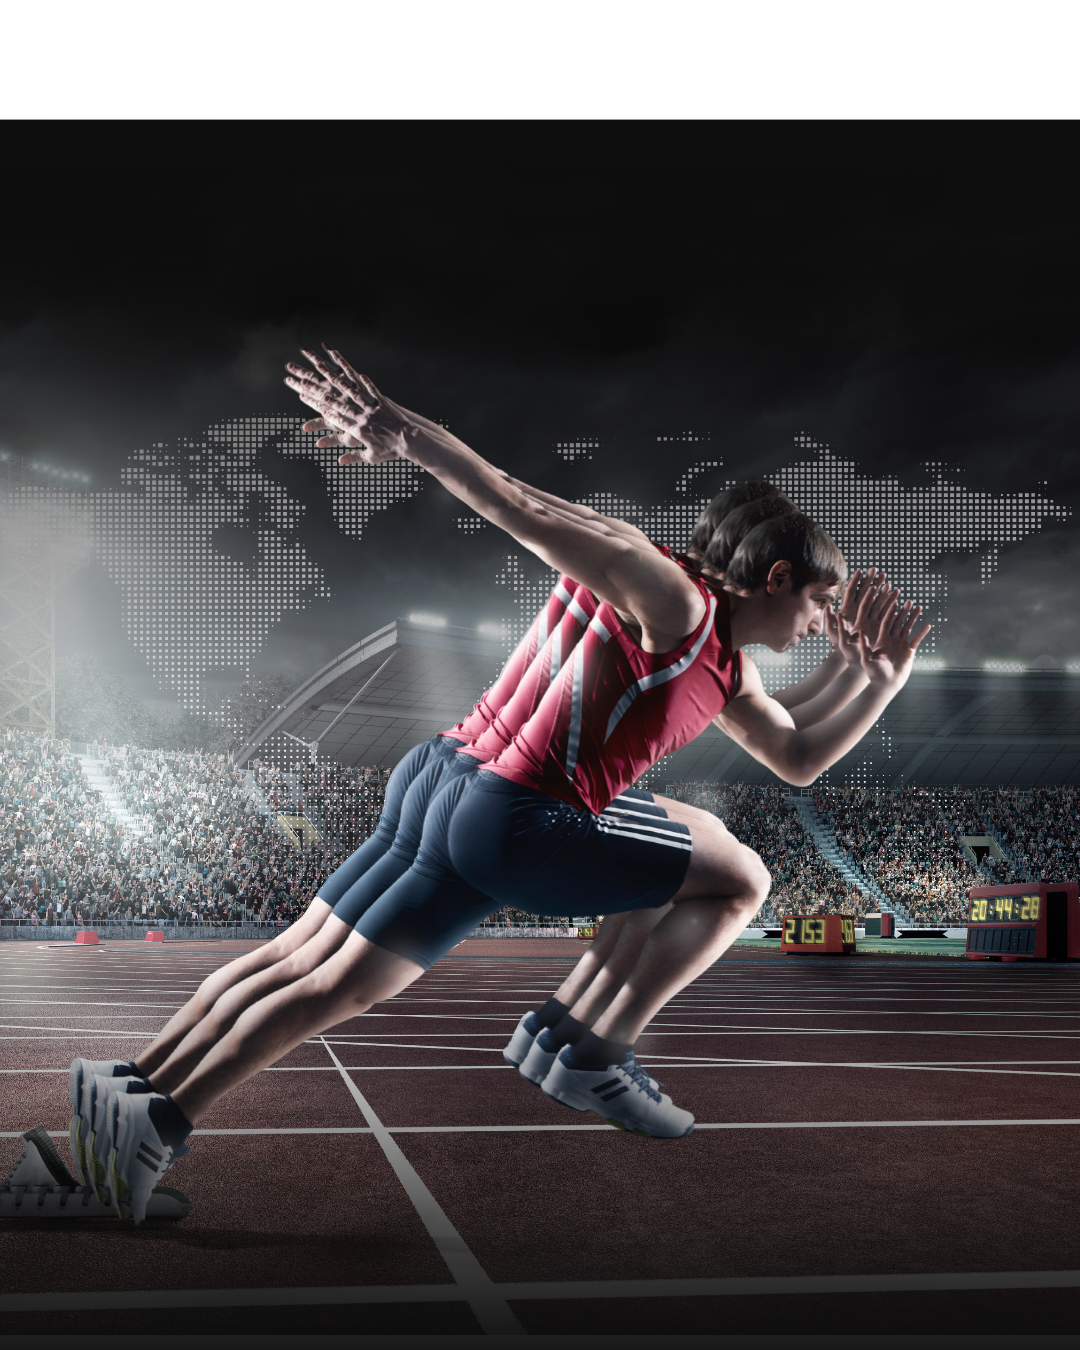
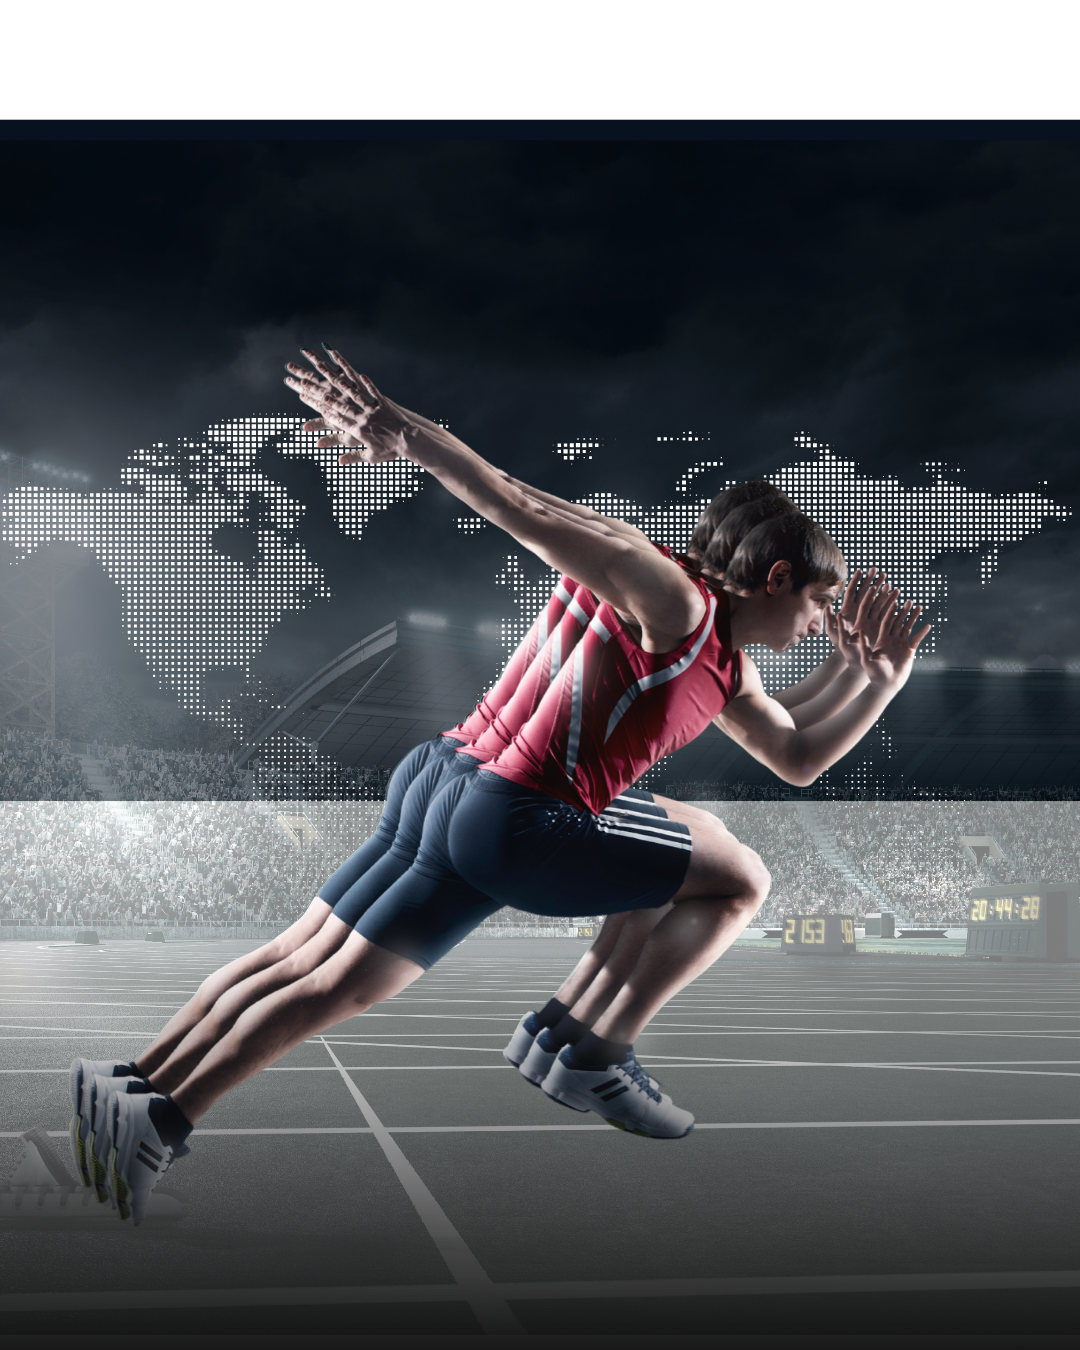
New hero athlete image + lime data-line callouts
- Swap athlete photo for sprinter-on-blocks with stadium + dot world map
- Loosen radial mask now that the photo carries its own dark backdrop
- Replace 6 floating True Line badges with 3 line-anchored data callouts
  (leader lines + anchor dots + numbers + sparkline/bar visualizations)
- Lime accent (#D5FA45) for the data overlay reads as live analytics
- Rewire ticker to flicker probability/edge values on the new labels

diff --git a/index.html b/index.html
@@ -1659,7 +1659,7 @@
     z-index: 4;
   }
   .corp-hero-player {
-    position: absolute; inset: -40px -20px -40px -20px;
+    position: absolute; inset: -30px -10px -30px -10px;
     border-radius: 0;
     overflow: visible;
     background-color: transparent;
@@ -1669,17 +1669,17 @@
     background-position: center;
     background-repeat: no-repeat;
     -webkit-mask-image:
-      radial-gradient(ellipse 80% 80% at 50% 50%, black 35%, transparent 78%);
+      radial-gradient(ellipse 100% 100% at 50% 50%, black 75%, transparent 100%);
     mask-image:
-      radial-gradient(ellipse 80% 80% at 50% 50%, black 35%, transparent 78%);
+      radial-gradient(ellipse 100% 100% at 50% 50%, black 75%, transparent 100%);
     box-shadow: none;
-    filter: contrast(1.05) saturate(0.92);
+    filter: contrast(1.02) saturate(0.95);
   }
   .corp-hero-player::before {
     content: ""; position: absolute; inset: 0;
     background:
-      radial-gradient(ellipse 500px 350px at 50% 60%, rgba(62,146,204,0.25), transparent 65%),
-      linear-gradient(180deg, rgba(7,17,31,0) 50%, rgba(7,17,31,0.7) 100%);
+      radial-gradient(ellipse 600px 400px at 50% 55%, rgba(62,146,204,0.14), transparent 70%),
+      linear-gradient(180deg, rgba(7,17,31,0) 70%, rgba(7,17,31,0.35) 100%);
     pointer-events: none;
     mix-blend-mode: normal;
   }
@@ -1690,118 +1690,91 @@
     z-index: 5;
     pointer-events: none;
   }
-  .tl-badge {
+  /* Leader-line overlay painted over the athlete (anchor dots + lines) */
+  .data-lines {
     position: absolute;
-    background: rgba(10, 23, 41, 0.88);
-    backdrop-filter: blur(14px);
-    -webkit-backdrop-filter: blur(14px);
-    border: 1px solid rgba(62,146,204,0.36);
-    border-radius: 10px;
-    padding: 9px 13px;
-    color: var(--white);
-    box-shadow:
-      0 14px 38px rgba(0,0,0,0.55),
-      0 0 28px rgba(62,146,204,0.18),
-      inset 0 1px 0 rgba(255,255,255,0.08);
-    min-width: 148px;
-    animation: tl-float 7s ease-in-out infinite;
-    transition: border-color 0.4s, box-shadow 0.4s;
-  }
-  .tl-badge.flash {
-    border-color: rgba(0,208,138,0.85);
-    box-shadow:
-      0 16px 40px rgba(0,0,0,0.55),
-      0 0 32px rgba(0,208,138,0.45),
-      inset 0 1px 0 rgba(255,255,255,0.10);
+    inset: 0;
+    width: 100%;
+    height: 100%;
+    overflow: visible;
+    color: #D5FA45;
+    filter: drop-shadow(0 0 8px rgba(213, 250, 69, 0.45));
   }
 
-  /* TRUE LINE callout at top of each badge */
-  .tl-badge-callout {
-    display: flex; align-items: center; gap: 6px;
-    font-size: 9px;
-    font-weight: 800;
-    letter-spacing: 0.2em;
-    text-transform: uppercase;
-    color: #67BCEC;
-    margin-bottom: 7px;
+  /* Floating metric labels at the end of each leader line */
+  .data-label {
+    position: absolute;
+    z-index: 6;
+    pointer-events: none;
+    display: flex;
+    flex-direction: column;
+    gap: 4px;
+    min-width: 120px;
+    color: #D5FA45;
+    text-shadow: 0 0 16px rgba(213, 250, 69, 0.30);
+    transition: color 0.3s, text-shadow 0.3s, transform 0.4s;
+    animation: dl-float 9s ease-in-out infinite;
+  }
+  .data-label.flash .dl-num {
+    color: #ECFFA0;
+    text-shadow: 0 0 22px rgba(213, 250, 69, 0.85);
+  }
+  .dl-eyebrow {
     font-family: "Inter", sans-serif;
-  }
-  .tl-badge-callout-dot {
-    width: 5px; height: 5px;
-    border-radius: 50%;
-    background: #00D08A;
-    box-shadow: 0 0 6px #00D08A;
-  }
-  .tl-badge-game {
-    font-size: 11px;
-    font-weight: 700;
-    color: var(--white);
-    margin-bottom: 6px;
-    line-height: 1.25;
-    letter-spacing: -0.005em;
-  }
-  .tl-badge-game small {
-    display: block;
-    color: rgba(255,255,255,0.55);
     font-size: 9px;
-    font-weight: 600;
-    letter-spacing: 0.08em;
+    letter-spacing: 0.20em;
     text-transform: uppercase;
-    margin-top: 2px;
-  }
-  .tl-badge-line {
-    display: flex; align-items: baseline; justify-content: space-between;
-    gap: 8px;
-    font-family: "SF Mono", Monaco, monospace;
-  }
-  .tl-badge-price {
-    font-size: 18px;
-    font-weight: 800;
-    color: var(--white);
-    letter-spacing: -0.02em;
-    transition: color 0.3s;
-  }
-  .tl-badge-delta {
-    font-size: 10px;
     font-weight: 700;
-    font-family: "SF Mono", Monaco, monospace;
+    opacity: 0.92;
   }
-  .tl-badge-delta.up   { color: #00D08A; }
-  .tl-badge-delta.down { color: #F76060; }
+  .dl-num {
+    font-family: "Space Grotesk", "JetBrains Mono", monospace;
+    font-size: 28px;
+    font-weight: 600;
+    letter-spacing: 0.005em;
+    font-variant-numeric: tabular-nums;
+    line-height: 1;
+    transition: color 0.3s, text-shadow 0.3s;
+  }
+  .dl-spark, .dl-bars {
+    width: 92px;
+    height: 16px;
+    display: block;
+    color: #D5FA45;
+    margin-top: 4px;
+    overflow: visible;
+  }
 
-  /* Badge positions — ALL on/around right column, NEVER spilling left */
-  /* Left edge of stage == left edge of player image. Negative left = over image, not into text. */
-  .tl-badge.b1 { top: 4%;   left: -8%;  animation-delay: 0s;   }
-  .tl-badge.b2 { top: 8%;   right: -8%; animation-delay: 1.2s; }
-  .tl-badge.b3 { top: 38%;  left: -10%; animation-delay: 2.4s; }
-  .tl-badge.b4 { top: 44%;  right: -10%; animation-delay: 3.6s; }
-  .tl-badge.b5 { bottom: 12%; left: 6%;  animation-delay: 4.8s; }
-  .tl-badge.b6 { bottom: 18%; right: -6%; animation-delay: 0.6s; }
+  /* Label positions — anchored along the right side */
+  .data-label.dl-1 { top: 4%;    left: 72%; animation-delay: 0s;   }
+  .data-label.dl-2 { top: 42%;   left: 72%; animation-delay: 1.5s; }
+  .data-label.dl-3 { bottom: 4%; left: 72%; animation-delay: 3s;   }
 
-  @keyframes tl-float {
-    0%, 100% { transform: translateY(0) translateX(0); }
-    50%      { transform: translateY(-8px) translateX(2px); }
+  @keyframes dl-float {
+    0%, 100% { transform: translateY(0); }
+    50%      { transform: translateY(-5px); }
   }
 
   /* Responsive */
   @media (max-width: 1100px) {
-    .tl-badge.b1, .tl-badge.b3 { left: -4%; }
-    .tl-badge.b2, .tl-badge.b4, .tl-badge.b6 { right: -4%; }
+    .data-label { min-width: 100px; }
+    .dl-num { font-size: 24px; }
+    .dl-spark, .dl-bars { width: 80px; }
   }
   @media (max-width: 960px) {
     .corp-hero-grid { grid-template-columns: 1fr; }
     .corp-hero-text { max-width: 100%; }
     .corp-hero-visual { aspect-ratio: 16/12; max-height: 480px; }
-    .tl-badge.b3, .tl-badge.b4 { display: none; }
+    .data-label.dl-2 { display: none; }
   }
   @media (max-width: 640px) {
-    .tl-badge.b5, .tl-badge.b6 { display: none; }
+    .data-label.dl-3 { display: none; }
     .corp-hero { padding: 80px 0 100px; }
   }
 
   /* Reduced motion */
   @media (prefers-reduced-motion: reduce) {
-    .tl-badge { animation: none !important; }
+    .data-label { animation: none !important; }
   }
 
   /* Coverage trust bar */
@@ -2067,53 +2040,64 @@
         </div>
 
         <div class="tl-stage" id="tlStage">
-          <div class="tl-badge b1" data-base="-107">
-            <div class="tl-badge-callout"><span class="tl-badge-callout-dot"></span>True Line · Live</div>
-            <div class="tl-badge-game">Lakers @ Celtics<small>NBA · Spread BOS −3.5</small></div>
-            <div class="tl-badge-line">
-              <span class="tl-badge-price">−107</span>
-              <span class="tl-badge-delta up">▲ 0.2%</span>
-            </div>
+          <!-- Leader lines + anchor dots painted over the athlete -->
+          <svg class="data-lines" viewBox="0 0 100 125" preserveAspectRatio="xMidYMid meet" aria-hidden="true">
+            <!-- Line 1: front shoulder/upper torso → top-right label -->
+            <line x1="58" y1="38" x2="72" y2="14" stroke="currentColor" stroke-width="0.35" vector-effect="non-scaling-stroke" />
+            <circle cx="58" cy="38" r="0.85" fill="currentColor" />
+
+            <!-- Line 2: extended forearm/hand → middle-right label -->
+            <line x1="74" y1="55" x2="72" y2="56" stroke="currentColor" stroke-width="0.35" vector-effect="non-scaling-stroke" />
+            <circle cx="74" cy="55" r="0.85" fill="currentColor" />
+
+            <!-- Line 3: front knee → bottom-right label -->
+            <line x1="50" y1="95" x2="72" y2="118" stroke="currentColor" stroke-width="0.35" vector-effect="non-scaling-stroke" />
+            <circle cx="50" cy="95" r="0.85" fill="currentColor" />
+          </svg>
+
+          <!-- DL 1: True Line probability with sparkline -->
+          <div class="data-label dl-1" data-base="0.3246" data-range="0.0090" data-format="decimal4">
+            <span class="dl-eyebrow">True Line</span>
+            <span class="dl-num">0.3246</span>
+            <svg class="dl-spark" viewBox="0 0 92 16" preserveAspectRatio="none" aria-hidden="true">
+              <path d="M0 9 Q 9 2, 18 9 T 36 9 T 54 9 T 72 9 T 92 9" fill="none" stroke="currentColor" stroke-width="1.2" />
+            </svg>
           </div>
-          <div class="tl-badge b2" data-base="142">
-            <div class="tl-badge-callout"><span class="tl-badge-callout-dot"></span>True Line · Live</div>
-            <div class="tl-badge-game">Yankees @ Red Sox<small>MLB · Moneyline NYY</small></div>
-            <div class="tl-badge-line">
-              <span class="tl-badge-price">+142</span>
-              <span class="tl-badge-delta up">▲ 0.5%</span>
-            </div>
+
+          <!-- DL 2: Edge with bar visualization -->
+          <div class="data-label dl-2" data-base="4.2" data-range="0.30" data-format="pctSigned">
+            <span class="dl-eyebrow">Edge · Live</span>
+            <span class="dl-num">+4.2%</span>
+            <svg class="dl-bars" viewBox="0 0 92 16" preserveAspectRatio="none" aria-hidden="true">
+              <rect x="0"  y="10" width="6" height="6"  fill="currentColor" />
+              <rect x="9"  y="6"  width="6" height="10" fill="currentColor" />
+              <rect x="18" y="3"  width="6" height="13" fill="currentColor" />
+              <rect x="27" y="8"  width="6" height="8"  fill="currentColor" />
+              <rect x="36" y="2"  width="6" height="14" fill="currentColor" />
+              <rect x="45" y="5"  width="6" height="11" fill="currentColor" />
+              <rect x="54" y="1"  width="6" height="15" fill="currentColor" />
+              <rect x="63" y="4"  width="6" height="12" fill="currentColor" />
+              <rect x="72" y="7"  width="6" height="9"  fill="currentColor" />
+              <rect x="82" y="3"  width="6" height="13" fill="currentColor" />
+            </svg>
           </div>
-          <div class="tl-badge b3" data-base="-105">
-            <div class="tl-badge-callout"><span class="tl-badge-callout-dot"></span>True Line · Live</div>
-            <div class="tl-badge-game">J. Tatum Pts<small>NBA · Player Prop O 27.5</small></div>
-            <div class="tl-badge-line">
-              <span class="tl-badge-price">−105</span>
-              <span class="tl-badge-delta up">▲ 0.7%</span>
-            </div>
-          </div>
-          <div class="tl-badge b4" data-base="-118">
-            <div class="tl-badge-callout"><span class="tl-badge-callout-dot"></span>True Line · Live</div>
-            <div class="tl-badge-game">Edmonton @ Boston<small>NHL · Total O 5.5</small></div>
-            <div class="tl-badge-line">
-              <span class="tl-badge-price">−118</span>
-              <span class="tl-badge-delta down">▼ 0.1%</span>
-            </div>
-          </div>
-          <div class="tl-badge b5" data-base="-220">
-            <div class="tl-badge-callout"><span class="tl-badge-callout-dot"></span>True Line · Live</div>
-            <div class="tl-badge-game">Man City @ Arsenal<small>EPL · Moneyline MCI</small></div>
-            <div class="tl-badge-line">
-              <span class="tl-badge-price">−220</span>
-              <span class="tl-badge-delta down">▼ 0.4%</span>
-            </div>
-          </div>
-          <div class="tl-badge b6" data-base="-108">
-            <div class="tl-badge-callout"><span class="tl-badge-callout-dot"></span>True Line · Live</div>
-            <div class="tl-badge-game">SGP · 3-leg correlated<small>NFL · Combined</small></div>
-            <div class="tl-badge-line">
-              <span class="tl-badge-price">−108</span>
-              <span class="tl-badge-delta up">▲ 0.6%</span>
-            </div>
+
+          <!-- DL 3: Probability with bar visualization -->
+          <div class="data-label dl-3" data-base="0.6579" data-range="0.0060" data-format="decimal4">
+            <span class="dl-eyebrow">Probability</span>
+            <span class="dl-num">0.6579</span>
+            <svg class="dl-bars" viewBox="0 0 92 16" preserveAspectRatio="none" aria-hidden="true">
+              <rect x="0"  y="6" width="6" height="10" fill="currentColor" />
+              <rect x="9"  y="3" width="6" height="13" fill="currentColor" />
+              <rect x="18" y="9" width="6" height="7"  fill="currentColor" />
+              <rect x="27" y="2" width="6" height="14" fill="currentColor" />
+              <rect x="36" y="6" width="6" height="10" fill="currentColor" />
+              <rect x="45" y="4" width="6" height="12" fill="currentColor" />
+              <rect x="54" y="8" width="6" height="8"  fill="currentColor" />
+              <rect x="63" y="2" width="6" height="14" fill="currentColor" />
+              <rect x="72" y="5" width="6" height="11" fill="currentColor" />
+              <rect x="82" y="3" width="6" height="13" fill="currentColor" />
+            </svg>
           </div>
         </div>
       </div>
@@ -2531,47 +2515,39 @@
 (function() {
   var stage = document.getElementById('tlStage');
   if (!stage) return;
-  var badges = stage.querySelectorAll('.tl-badge');
-  if (!badges.length) return;
-
+  var labels = stage.querySelectorAll('.data-label');
+  if (!labels.length) return;
   if (window.matchMedia && window.matchMedia('(prefers-reduced-motion: reduce)').matches) return;
 
-  function fmt(n) {
-    n = Math.round(n);
-    var sign = n > 0 ? '+' : (n < 0 ? '−' : '');
-    return sign + Math.abs(n);
-  }
-
-  function pct() {
-    return (Math.random() * 0.9 + 0.1).toFixed(1);
+  function format(value, mode) {
+    if (mode === 'decimal4') return value.toFixed(4);
+    if (mode === 'pctSigned') {
+      var sign = value >= 0 ? '+' : '−';
+      return sign + Math.abs(value).toFixed(1) + '%';
+    }
+    return value.toString();
   }
 
   function tick() {
-    var b = badges[Math.floor(Math.random() * badges.length)];
-    var priceEl = b.querySelector('.tl-badge-price');
-    var deltaEl = b.querySelector('.tl-badge-delta');
-    if (!priceEl || !deltaEl) return;
+    var i = Math.floor(Math.random() * labels.length);
+    var label = labels[i];
+    var num = label.querySelector('.dl-num');
+    if (!num) return;
 
-    var base = parseFloat(b.getAttribute('data-base'));
-    if (isNaN(base)) return;
+    var base = parseFloat(label.getAttribute('data-base'));
+    var range = parseFloat(label.getAttribute('data-range'));
+    var mode = label.getAttribute('data-format');
+    if (isNaN(base) || isNaN(range)) return;
 
-    // Larger jitter for high-magnitude bases
-    var amp = Math.abs(base) > 200 ? 8 : 5;
-    var jitter = Math.round((Math.random() - 0.5) * amp * 2);
+    var jitter = (Math.random() - 0.5) * range * 2;
     var newVal = base + jitter;
-    var dir = jitter >= 0 ? 'up' : 'down';
-    var arrow = dir === 'up' ? '▲' : '▼';
+    num.textContent = format(newVal, mode);
 
-    priceEl.textContent = fmt(newVal);
-    deltaEl.textContent = arrow + ' ' + pct() + '%';
-    deltaEl.classList.remove('up', 'down');
-    deltaEl.classList.add(dir);
-
-    b.classList.add('flash');
-    setTimeout(function(){ b.classList.remove('flash'); }, 600);
+    label.classList.add('flash');
+    setTimeout(function(){ label.classList.remove('flash'); }, 500);
   }
 
-  // Stagger initial activity so multiple badges feel alive at once
+  // Stagger initial activity so the data overlay feels alive
   setInterval(tick, 900);
   setTimeout(tick, 200);
   setTimeout(tick, 600);
